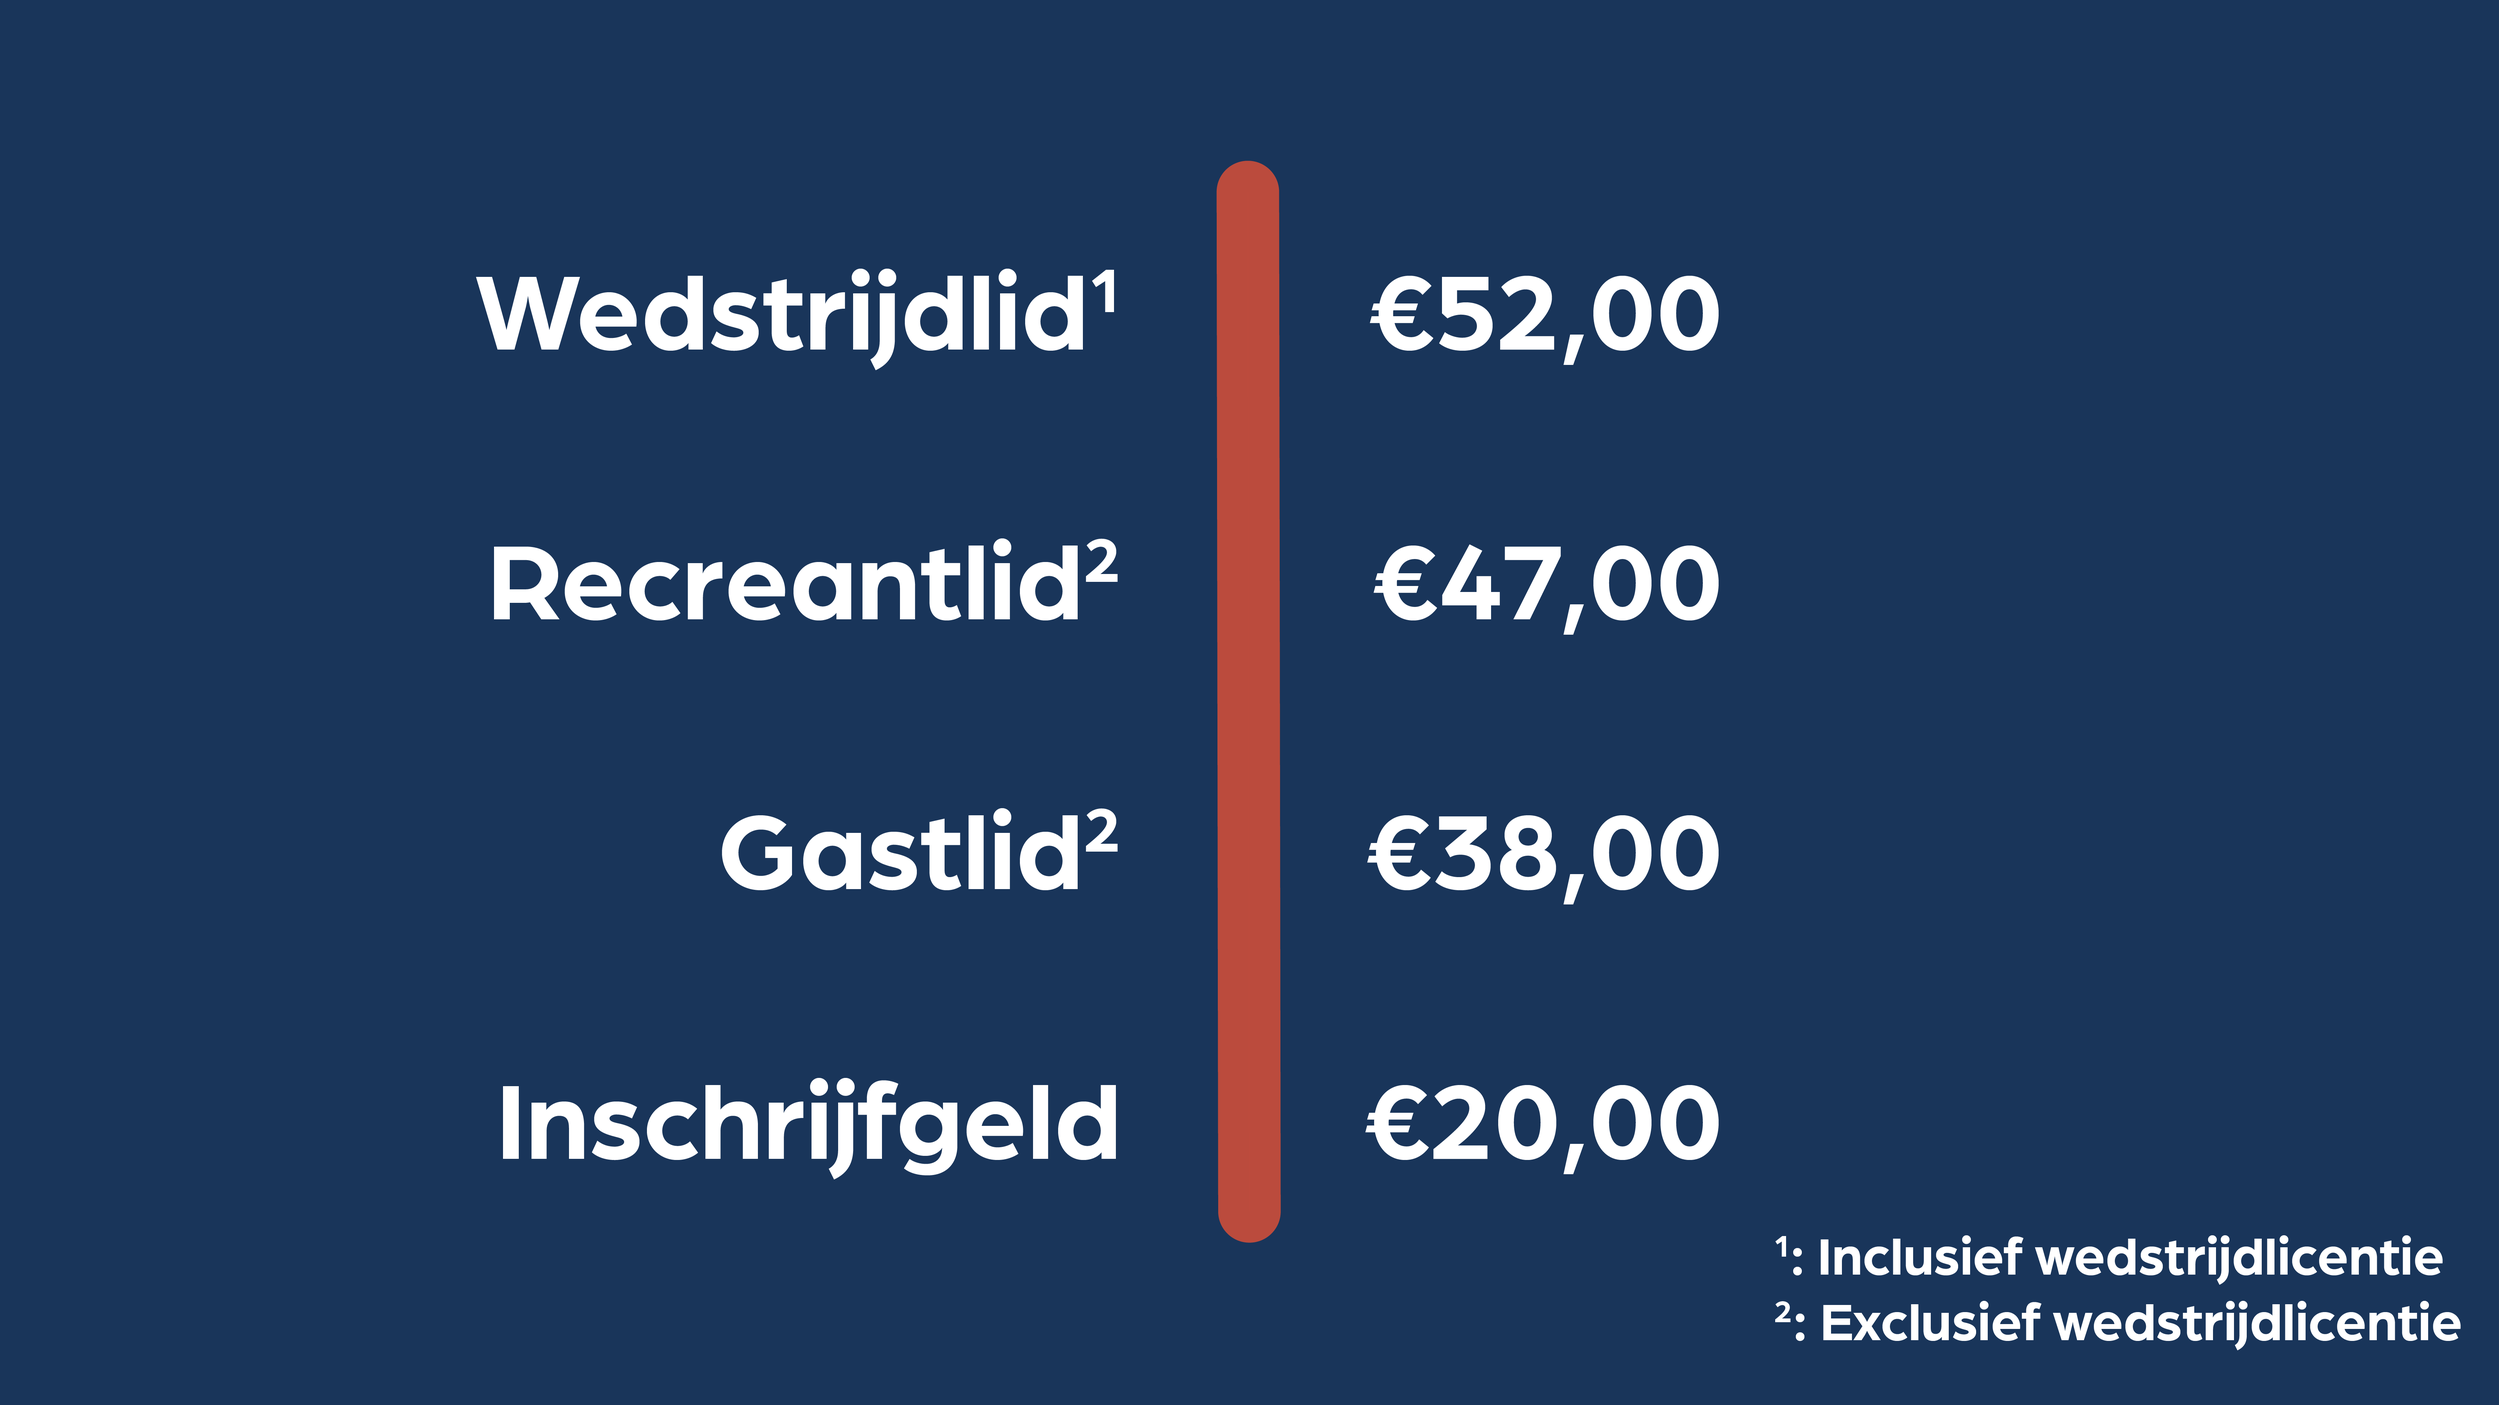
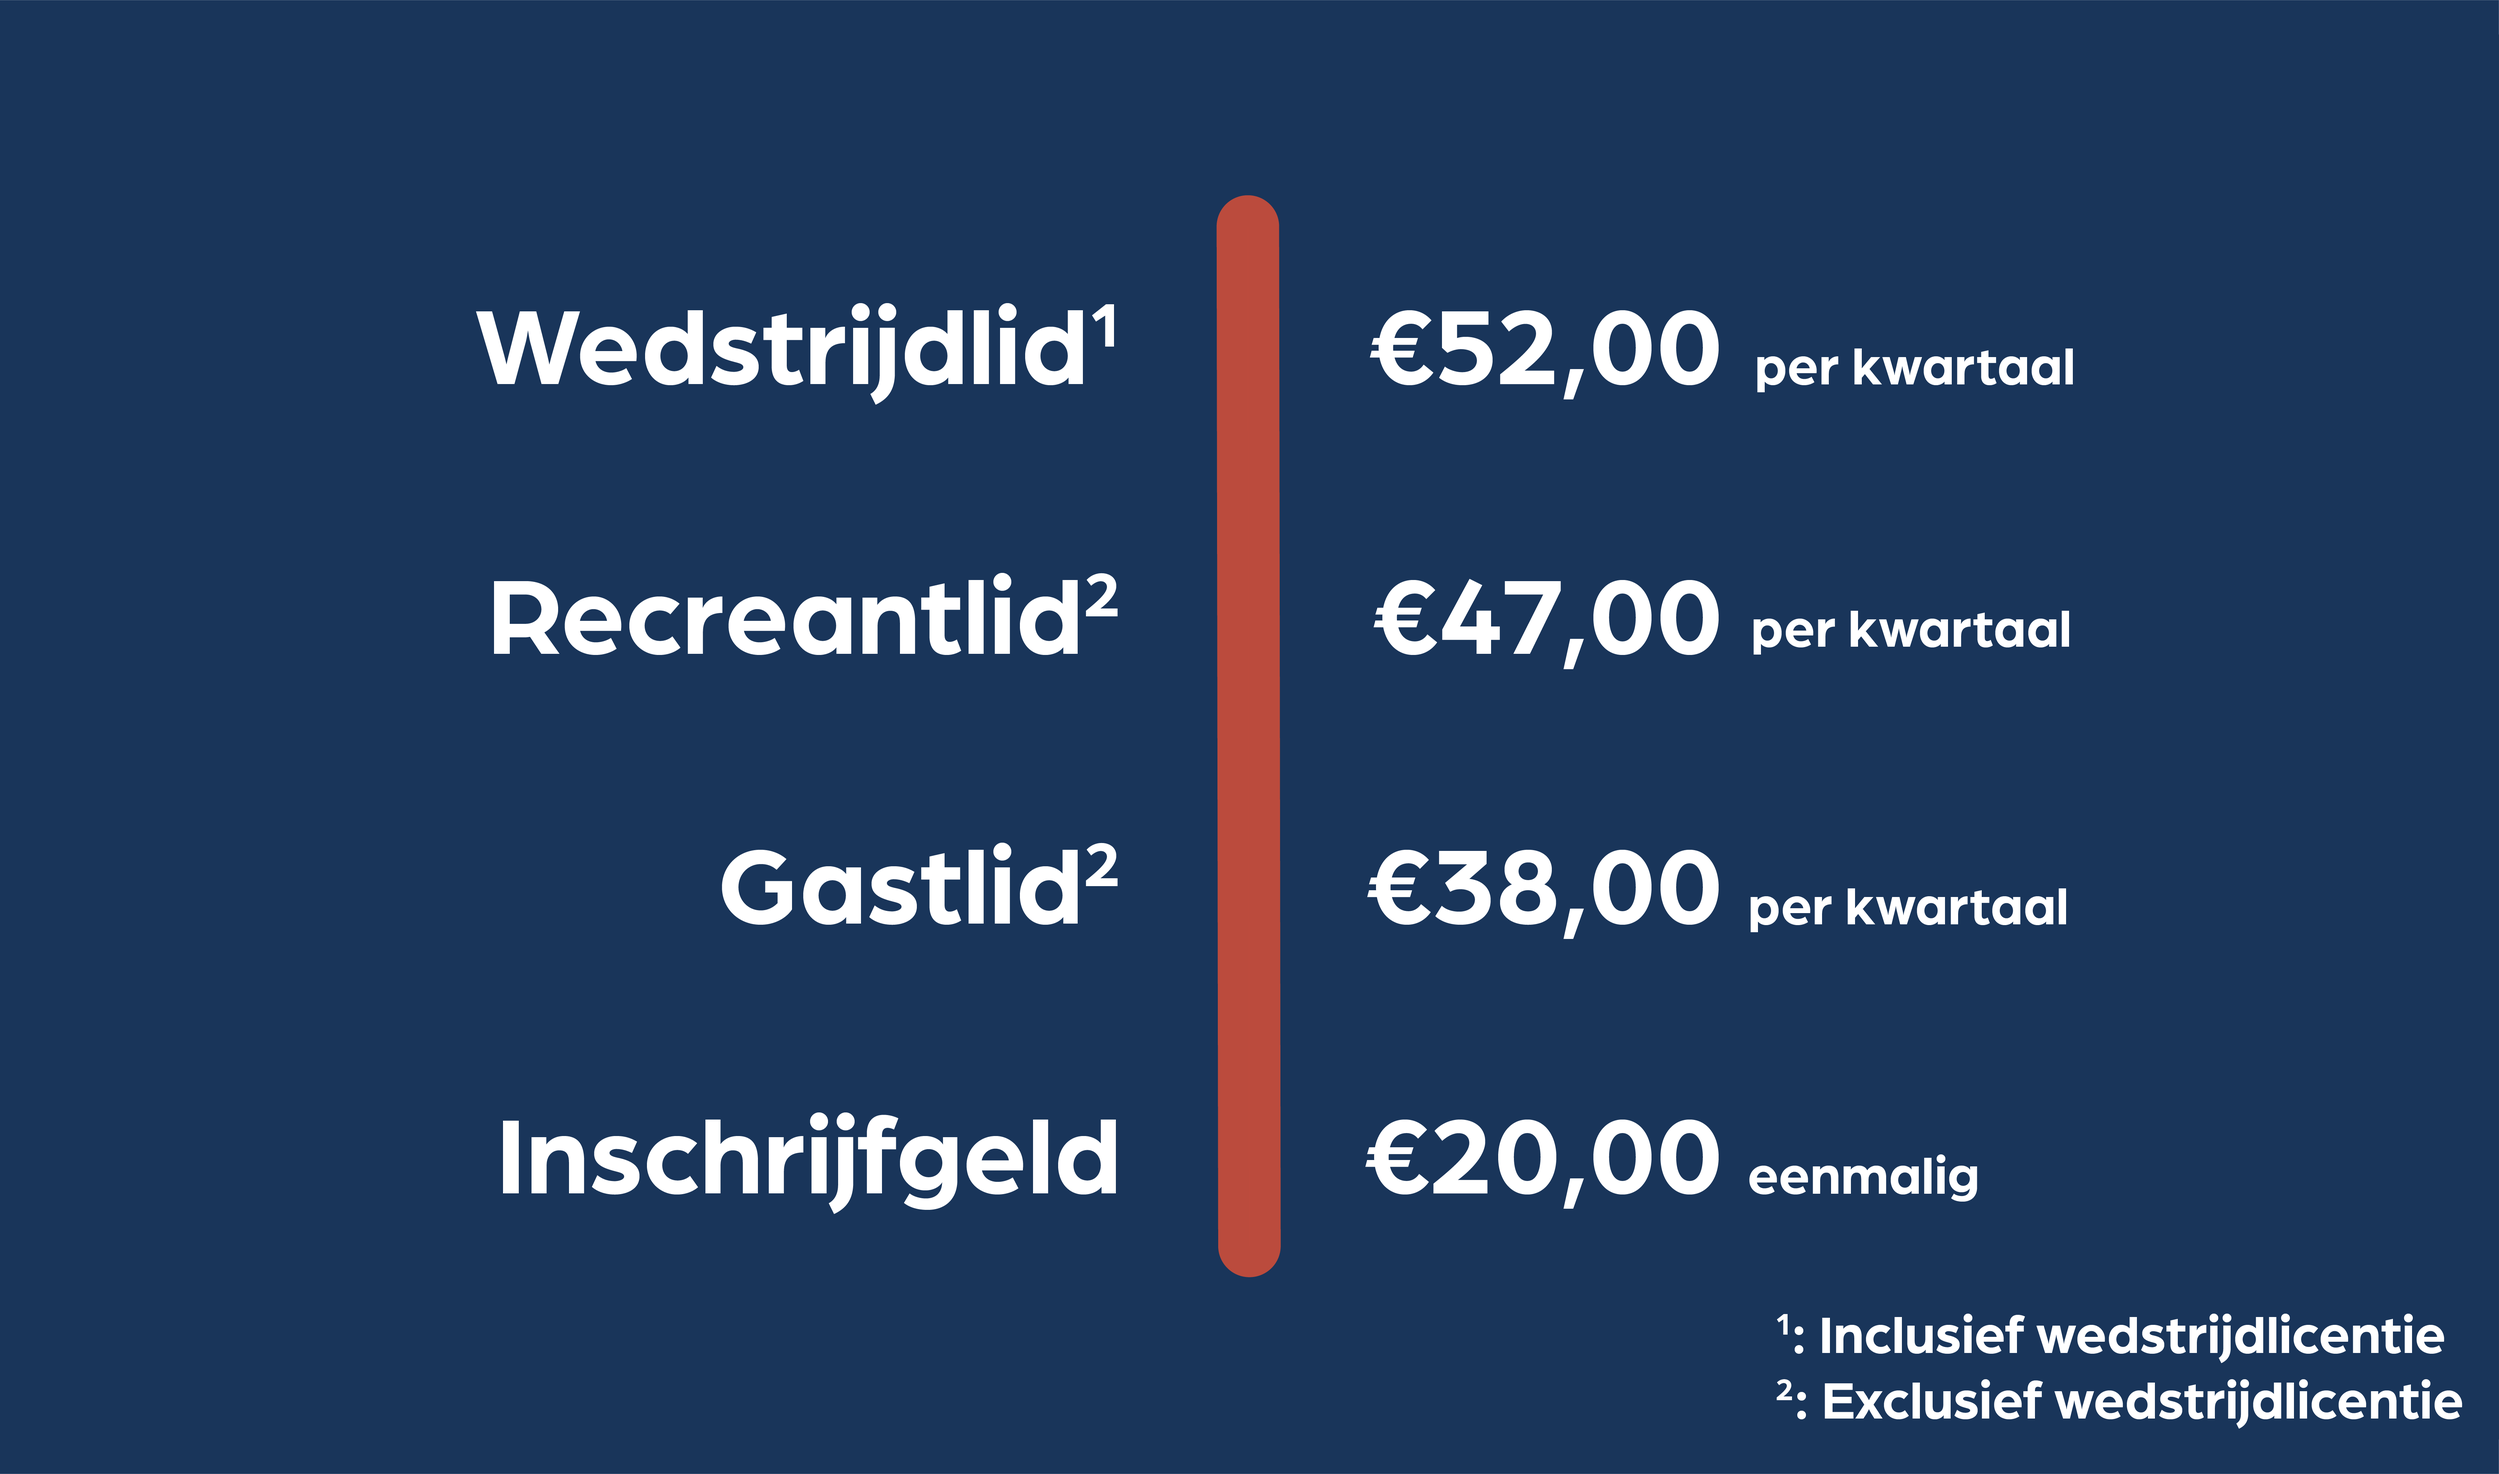
word lid: added png table

diff --git a/src/pages/Over/components/cards.js b/src/pages/Over/components/cards.js
@@ -1,0 +1,2 @@
+import React from "react";
+
